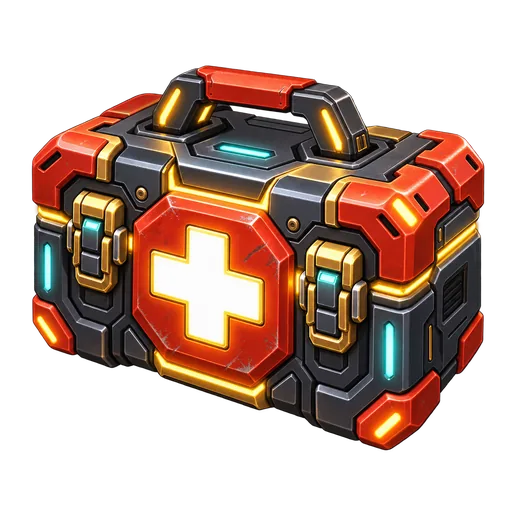
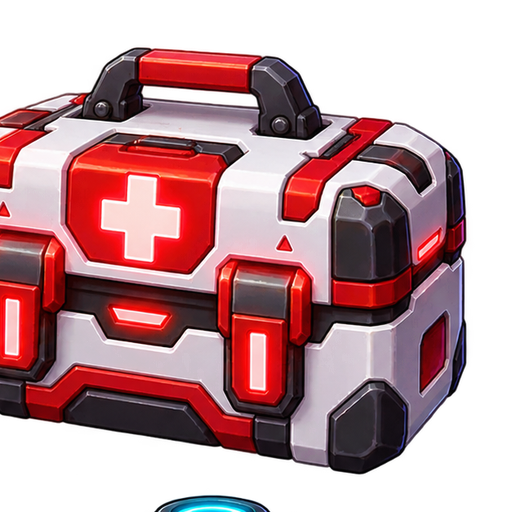
chore: integrate special pickup and boss assets

diff --git a/src/config/assets.ts b/src/config/assets.ts
@@ -19,6 +19,10 @@ export const ASSETS = {
     brute: "/assets/enemies/brute.svg",
     shooter: "/assets/enemies/shooter.svg",
     bonklord: "/assets/enemies/bonklord.svg",
+    cindermaw: "/assets/enemies/cindermaw.webp",
+    stormcoil: "/assets/enemies/stormcoil.webp",
+    venomatrix: "/assets/enemies/venomatrix.webp",
+    cryovex: "/assets/enemies/cryovex.webp",
   },
   weapons: {
     hammer: "/assets/weapons/hammer.svg",
@@ -45,6 +49,10 @@ export const ASSETS = {
     medkitCase: "/assets/v2/items/medkit-case.webp",
     shieldPotion: "/assets/v2/items/shield-potion.webp",
     shieldBattery: "/assets/v2/items/shield-battery.webp",
+    overclockCore: "/assets/v2/items/overclock-core.webp",
+    teslaCell: "/assets/v2/items/tesla-cell.webp",
+    toxicRelic: "/assets/v2/items/toxic-relic.webp",
+    phoenixFragment: "/assets/v2/items/phoenix-fragment.webp",
   },
   ui: {
     logo: "/assets/ui/bonkageddon-logo.svg",

diff --git a/docs/ASSET_INTEGRATION.md b/docs/ASSET_INTEGRATION.md
@@ -1,0 +1,34 @@
+# Medical, Special Pickup, and Boss Assets
+
+Source pack: `BONKAGEDDON_assets_medical_special_bosses` (12 WebP assets with transparency).
+
+## Recovery and Shield Items
+
+| Key | Public path |
+| --- | --- |
+| `ASSETS.items.medkitEmergency` | `/assets/v2/items/medkit-emergency.webp` |
+| `ASSETS.items.medkitCase` | `/assets/v2/items/medkit-case.webp` |
+| `ASSETS.items.shieldPotion` | `/assets/v2/items/shield-potion.webp` |
+| `ASSETS.items.shieldBattery` | `/assets/v2/items/shield-battery.webp` |
+
+## Special Pickups
+
+| Key | Public path |
+| --- | --- |
+| `ASSETS.items.overclockCore` | `/assets/v2/items/overclock-core.webp` |
+| `ASSETS.items.teslaCell` | `/assets/v2/items/tesla-cell.webp` |
+| `ASSETS.items.toxicRelic` | `/assets/v2/items/toxic-relic.webp` |
+| `ASSETS.items.phoenixFragment` | `/assets/v2/items/phoenix-fragment.webp` |
+
+These files provide official UI/decal identity. Existing procedural 3D special pickups remain unchanged.
+
+## Boss Identities
+
+| Key | Public path |
+| --- | --- |
+| `ASSETS.enemies.cindermaw` | `/assets/enemies/cindermaw.webp` |
+| `ASSETS.enemies.stormcoil` | `/assets/enemies/stormcoil.webp` |
+| `ASSETS.enemies.venomatrix` | `/assets/enemies/venomatrix.webp` |
+| `ASSETS.enemies.cryovex` | `/assets/enemies/cryovex.webp` |
+
+Boss gameplay and scene integration are intentionally outside this asset-only workstream.
